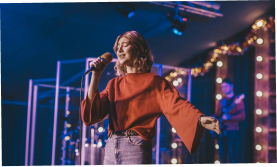
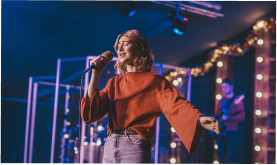
add photos to gallery

diff --git a/index.html b/index.html
@@ -190,8 +190,8 @@
                 <div class="galery-container">
                     <div class="galery-left">
                         <img src="./img/main/galery/p1.jpg" alt="">
-                        <img src="./img/main/galery/p2.jpg" alt="">
-                        <img src="./img/main/galery/p3.jpg" alt="">
+                        <img src="./img/main/galery/2.png" alt="">
+                        <img src="./img/main/galery/3.png" alt="">
                         <img src="./img/main/galery/p4.jpg" alt="">
                     </div>
                     <div class="galery-right">
